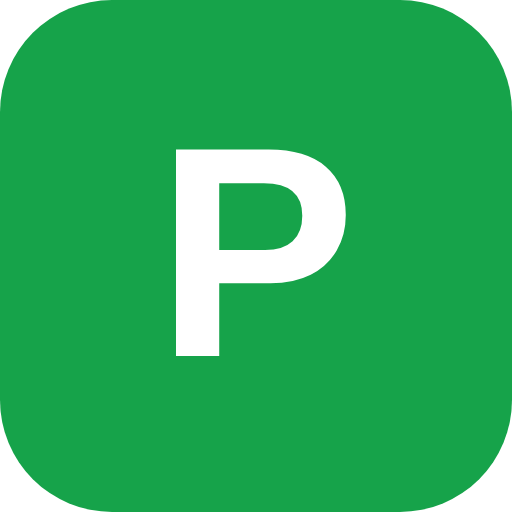
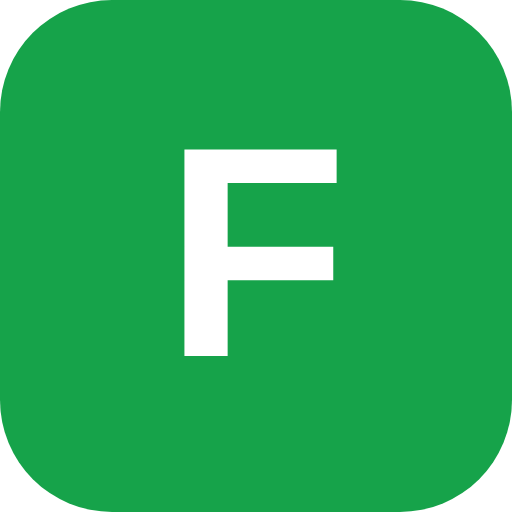
feat(prumo): app passa a se chamar Fortune (ícone F, textos, kernex-fortune.pages.dev); diagnóstico do print
Claude-Session: https://claude.ai/code/session_014PhZCSqsu9mz4J3Ug15KjE

Changed region(s): [[0.4062, 0.2812, 0.6875, 0.6875], [0.3438, 0.2812, 0.375, 0.7188]]

diff --git a/prumo/index.html b/prumo/index.html
@@ -3,7 +3,7 @@
 <head>
 <meta charset="utf-8">
 <meta name="viewport" content="width=device-width, initial-scale=1, viewport-fit=cover">
-<title>Prumo</title>
+<title>Fortune</title>
 <meta name="theme-color" content="#16a34a">
 <link rel="manifest" href="/prumo/manifest.webmanifest">
 <link rel="icon" href="/prumo/icone.svg" type="image/svg+xml">
@@ -44,7 +44,7 @@
 <body>
 <header>
   <img src="/prumo/icone.svg" alt="">
-  <h1>Prumo</h1>
+  <h1>Fortune</h1>
   <button id="instalar" class="instalar" type="button" hidden>📲 Instalar app</button>
   <button id="sair" type="button" hidden>Sair</button>
 </header>
@@ -53,8 +53,8 @@
 
 <section id="tela-entrar" class="entrar" hidden>
   <main>
-    <img src="/prumo/icone.svg" alt="Prumo">
-    <h2>Suas finanças no prumo</h2>
+    <img src="/prumo/icone.svg" alt="Fortune">
+    <h2>Suas finanças sob controle</h2>
     <p>Investimentos, cartões e lista de compras num lugar só.</p>
     <button id="entrar" class="btn" type="button" data-testid="prumo-entrar">Entrar com Google</button>
     <button id="instalar2" class="btn sec" type="button" hidden>📲 Baixar o app no celular</button>
@@ -75,7 +75,7 @@
   <button type="button" role="tab" data-aba="pontos" aria-selected="false"><span>✈</span>Milhas</button>
 </nav>
 <div id="dica" class="dica" role="dialog" aria-modal="true" hidden><div>
-  <h3>Instalar o Prumo</h3>
+  <h3>Instalar o Fortune</h3>
   <ol id="dica-passos"></ol>
   <button id="dica-ok" class="btn" type="button">Entendi</button>
 </div></div>

diff --git a/scripts/prumo-ler-print-ao-vivo.js b/scripts/prumo-ler-print-ao-vivo.js
@@ -10,6 +10,16 @@ const p = require('../netlify/functions/prumo.js');
   for (const d of [{ provider: 'google', model: 'gemini-2.5-flash-lite' }, { provider: 'gemini', model: 'gemini-2.5-flash-lite' }]) {
     try { console.log(d.provider, d.model, JSON.stringify(router.capabilities(d))); } catch (e) { console.log(d.provider, 'sem provedor:', e.message); }
   }
+  for (const d of [{ provider: 'google', model: 'gemini-2.5-flash-lite' }, { provider: 'gemini', model: 'gemini-2.5-flash-lite' }]) {
+    try {
+      const o = await router.chat(d, { messages: [{ role: 'user', content: 'Diga só: ok' }], maxTokens: 50 });
+      console.log('texto sem imagem', d.provider, 'OK:', (o.text || '').slice(0, 40));
+    } catch (e) { console.log('texto sem imagem', d.provider, 'ERRO', e.code, e.status, String(e.upstream || '').slice(0, 300), String(e.message).slice(0, 300)); }
+  }
+  try {
+    await router.chat({ provider: 'google', model: 'gemini-2.5-flash-lite' }, { messages: [{ role: 'user', content: 'Leia' }], images: [{ mime: 'image/jpeg', data }], maxTokens: 500 });
+    console.log('com imagem OK');
+  } catch (e) { console.log('com imagem ERRO', e.code, e.status, String(e.upstream || '').slice(0, 300), JSON.stringify(e).slice(0, 400), String(e.message).slice(0, 300)); }
   const avisos = []; const warn = console.warn; console.warn = (...a) => { avisos.push(a.join(' ')); warn(...a); };
   const t = Date.now();
   const r = await p.lerPrint([{ mime: 'image/jpeg', data }], p.deps);

diff --git a/prumo/instalar.js b/prumo/instalar.js
@@ -14,7 +14,7 @@
   function passos() {
     if (ios) return ['Abra este link no <b>Safari</b>.', 'Toque no botão <b>Compartilhar</b> (quadrado com seta para cima).', 'Escolha <b>"Adicionar à Tela de Início"</b> e toque em <b>Adicionar</b>.'];
     if (dentroDeApp) return ['Toque nos <b>3 pontinhos</b> e escolha <b>"Abrir no Chrome"</b>.', 'No Chrome, toque de novo em <b>📲 Instalar app</b>.'];
-    return ['Toque nos <b>3 pontinhos</b> (⋮) do Chrome, no canto de cima.', 'Escolha <b>"Instalar app"</b> ou <b>"Adicionar à tela inicial"</b>.', 'O ícone verde <b>P</b> aparece na tela do celular.'];
+    return ['Toque nos <b>3 pontinhos</b> (⋮) do Chrome, no canto de cima.', 'Escolha <b>"Instalar app"</b> ou <b>"Adicionar à tela inicial"</b>.', 'O ícone verde <b>F</b> do Fortune aparece na tela do celular.'];
   }
   async function instalar() {
     if (pedido) {

diff --git a/netlify/functions/prumo-lib/extra.js b/netlify/functions/prumo-lib/extra.js
@@ -113,7 +113,7 @@ function contextoConsultor(d) {
   if (d.avaliacao) for (const p of d.avaliacao.pontos) linhas.push(`Avaliação (${p.tipo}): ${p.texto}`);
   return linhas.join('\n').slice(0, 6000);
 }
-const SISTEMA_CONSULTOR = `Você é o consultor financeiro do app Prumo, para uma pessoa leiga no Brasil. Fale português simples, curto e gentil.
+const SISTEMA_CONSULTOR = `Você é o consultor financeiro do app Fortune, para uma pessoa leiga no Brasil. Fale português simples, curto e gentil.
 Responda usando SÓ os números do CONTEXTO (patrimônio, objetivos, histórico, holerite, orçamento). Nunca invente números; se faltar dado, diga o que a pessoa precisa cadastrar.
 Explique o porquê das sugestões (prazo, risco, liquidez, garantia do FGC). Não mande comprar produto de um banco específico.`;
 

diff --git a/tests/unit/prumo-app.test.js b/tests/unit/prumo-app.test.js
@@ -11,14 +11,14 @@ const ler = (f) => fs.readFileSync(path.join(pasta, f), 'utf8');
 
 test('PA1. manifest: name Prumo, start_url /prumo/, ícone próprio', () => {
   const m = JSON.parse(ler('manifest.webmanifest'));
-  assert.equal(m.name, 'Prumo');
+  assert.equal(m.name, 'Fortune'); // #2923: o app se chama Fortune (pasta e API seguem /prumo)
   assert.equal(m.start_url, '/prumo/');
   assert.ok(m.icons.some((i) => i.src.endsWith('icone.svg')));
 });
 
 test('PA2. ícone é verde com P e sem NEXIA/Kernex', () => {
   const svg = ler('icone.svg');
-  assert.match(svg, />P</);
+  assert.match(svg, />F</);
   assert.match(svg, /#16a34a/);
   assert.doesNotMatch(svg, /nexia|kernex/i);
 });

diff --git a/prumo/sw.js b/prumo/sw.js
@@ -1,5 +1,5 @@
 // Prumo: guarda só a casca do app para abrir sem internet. Respostas da API nunca são guardadas.
-const CACHE = 'prumo-casca-v1-4';
+const CACHE = 'prumo-casca-v2-fortune';
 const CASCA = ['/prumo/', '/prumo/index.html', '/prumo/app.js', '/prumo/manifest.webmanifest', '/prumo/icone.svg', '/prumo/ui.js', '/prumo/carteira.js', '/prumo/gastos.js', '/prumo/compras.js', '/prumo/objetivos.js', '/prumo/orcamento.js', '/prumo/consultor.js', '/prumo/pontos.js', '/prumo/instalar.js', '/prumo/icone-192.png'];
 
 self.addEventListener('install', (e) => {

diff --git a/apps/prumo/pages-proxy/functions/[[path]].js b/apps/prumo/pages-proxy/functions/[[path]].js
@@ -1,4 +1,4 @@
-// Prumo com endereço Kernex (kernex-prumo.pages.dev): repassa tudo ao Worker.
+// Fortune (antigo Prumo) com endereço Kernex (kernex-fortune.pages.dev e kernex-prumo.pages.dev): repassa tudo ao Worker.
 // Sem X-Nexia-Proxy de propósito: o login usa o authDomain padrão do Firebase (popup do Google).
 const ORIGEM = 'https://nexia.gcbezerra.workers.dev';
 
